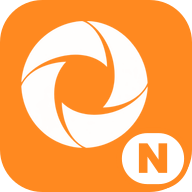
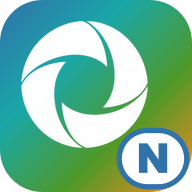
feat(nexo): icono en degradado de los cuatro colores y el mismo en la página
El naranja se confundía con el color del alumnado. Nexo es la puerta a todas las
herramientas, así que su icono lleva los cuatro colores de colectivo en degradado
(azul → turquesa → verde → naranja). iconos-herramientas.mjs admite `degradado`;
favicon, iconos PWA y el icono de la cabecera (nexo/icono-barra.png) salen del mismo
script, así que la página y la pestaña se ven iguales.

diff --git a/frontend-microretos/nexo/App.vue b/frontend-microretos/nexo/App.vue
@@ -5,7 +5,8 @@ import BotonInstalarApp from '../src/components/BotonInstalarApp.vue'
 import {
   AcademicCapIcon, ArrowRightIcon, BriefcaseIcon, GlobeAltIcon, ShieldCheckIcon,
 } from '@heroicons/vue/24/outline'
-import logo from '../src/assets/logo_colores.png'
+// Mismo icono que el favicon (pwa/iconos-herramientas.mjs --barra nexo)
+import logo from './icono-barra.png'
 import AvisoNuevaVersion from '../src/components/AvisoNuevaVersion.vue'
 import { HERRAMIENTAS } from './herramientas.js'
 
@@ -32,7 +33,7 @@ const enLocal = import.meta.env.DEV
         <BotonInstalarApp nombre="Nexo DuaLab" ruta-inicio="/" />
       </div>
       <header class="flex flex-col items-center text-center text-white">
-        <img :src="logo" alt="" class="h-14 w-auto sm:h-16" />
+        <img :src="logo" alt="" class="h-14 w-14 rounded-[22%] shadow-lg ring-1 ring-white/25 sm:h-16 sm:w-16" />
         <h1 class="mt-4 font-heading text-3xl font-bold sm:text-4xl">
           Nexo <span class="text-administraciones">DuaLab</span>
         </h1>
